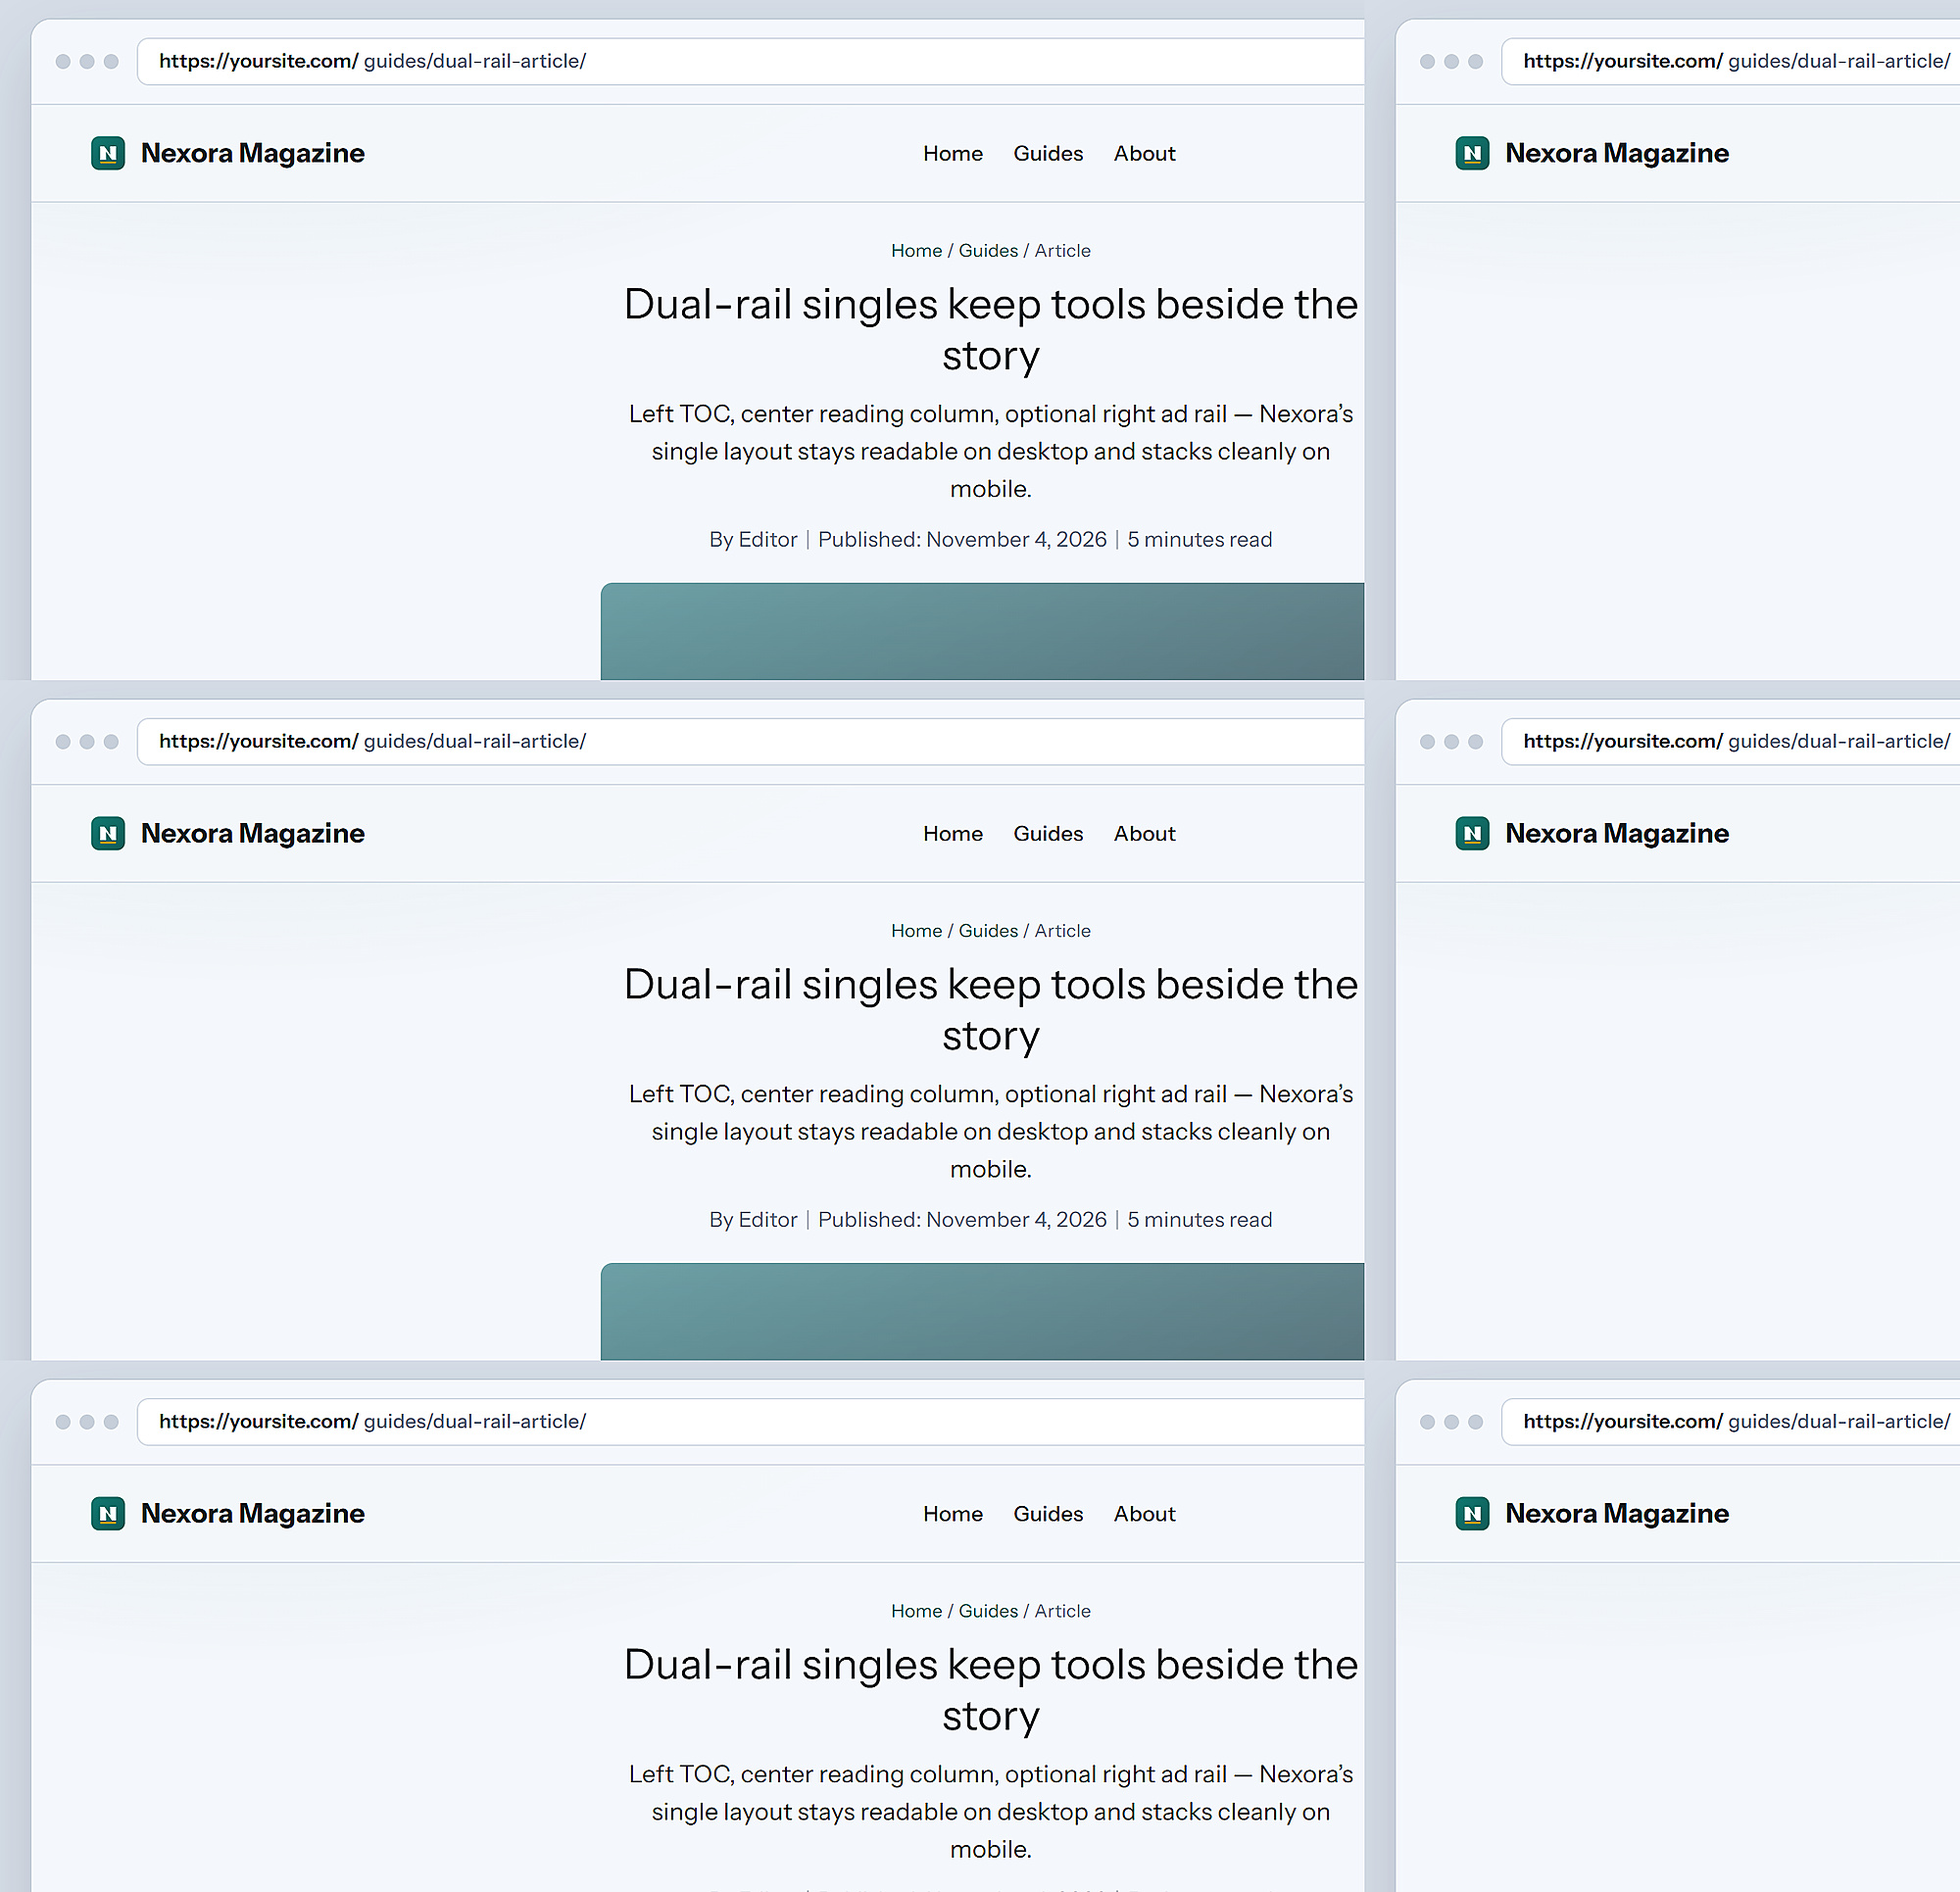
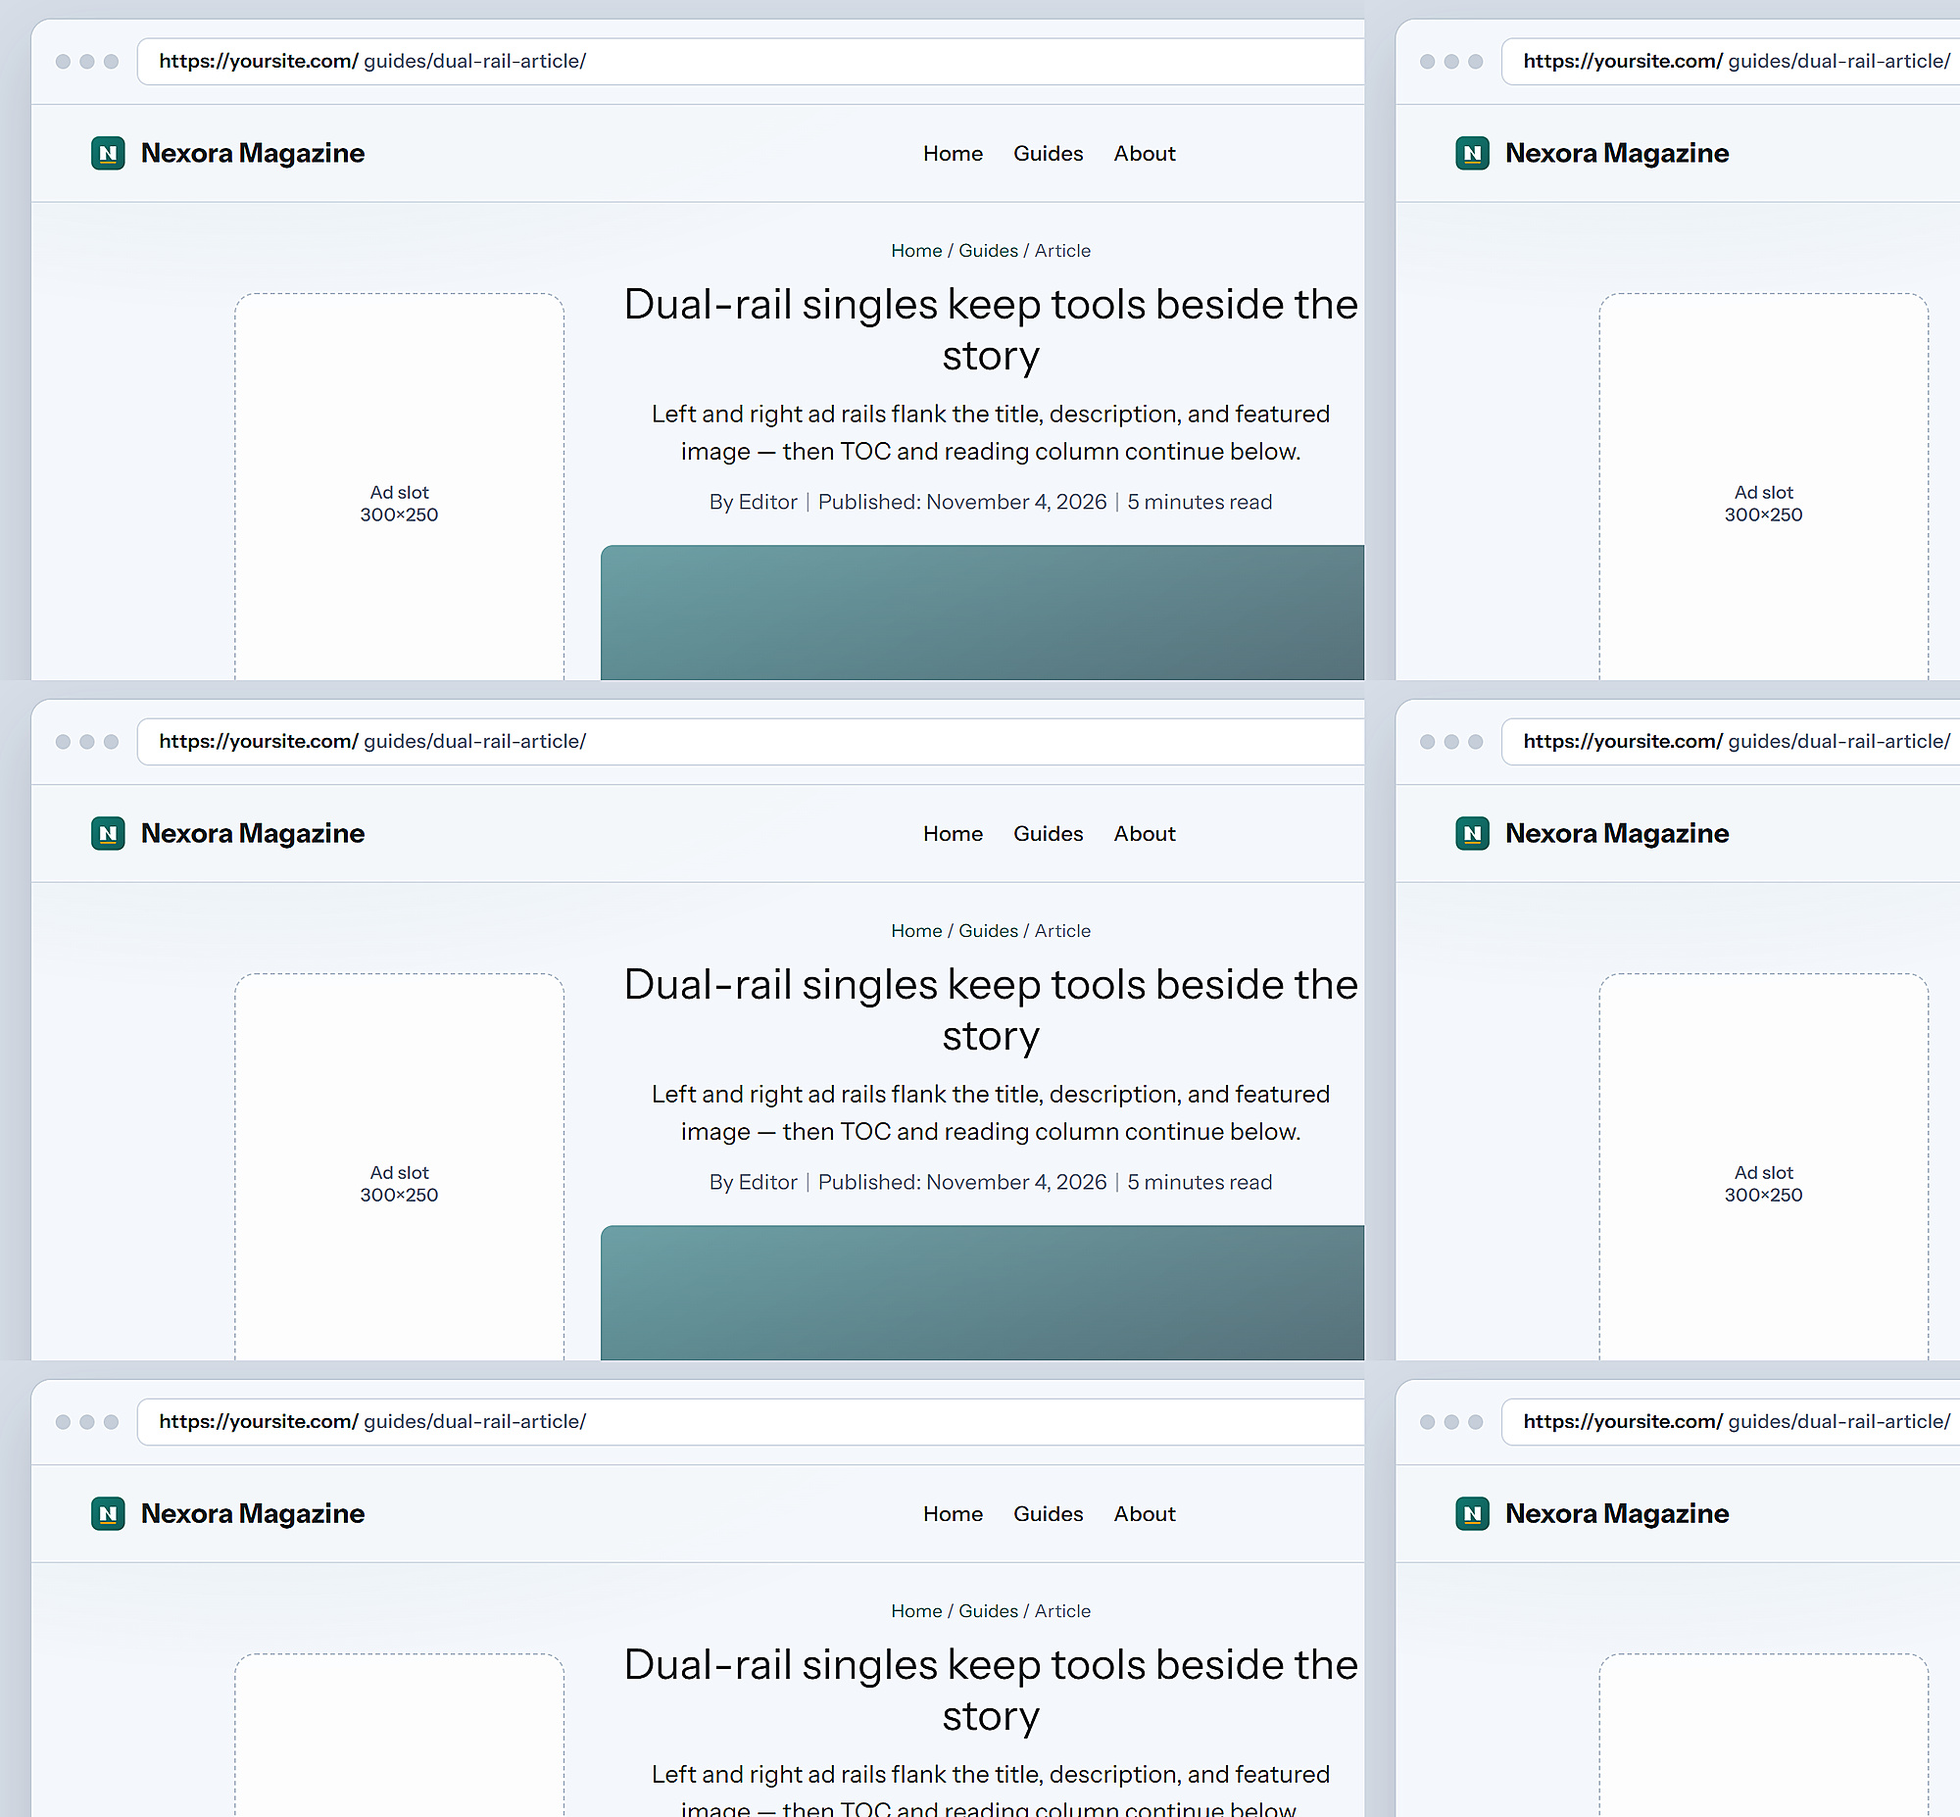
Show left and right ad slots beside article hero title and image.

diff --git a/index.html b/index.html
@@ -278,7 +278,7 @@
                 <span class="device__url">Single post</span>
               </div>
               <figure class="device__screen">
-                <img src="assets/article-layout.jpg?v=hq1" width="2000" height="1931" alt="Nexora single post — TOC rail, reading column, right ad rail" loading="lazy">
+                <img src="assets/article-layout.jpg?v=ads-both" width="2000" height="1854" alt="Nexora single post — ad rails beside title, description, and featured image" loading="lazy">
               </figure>
             </div>
           </div>
